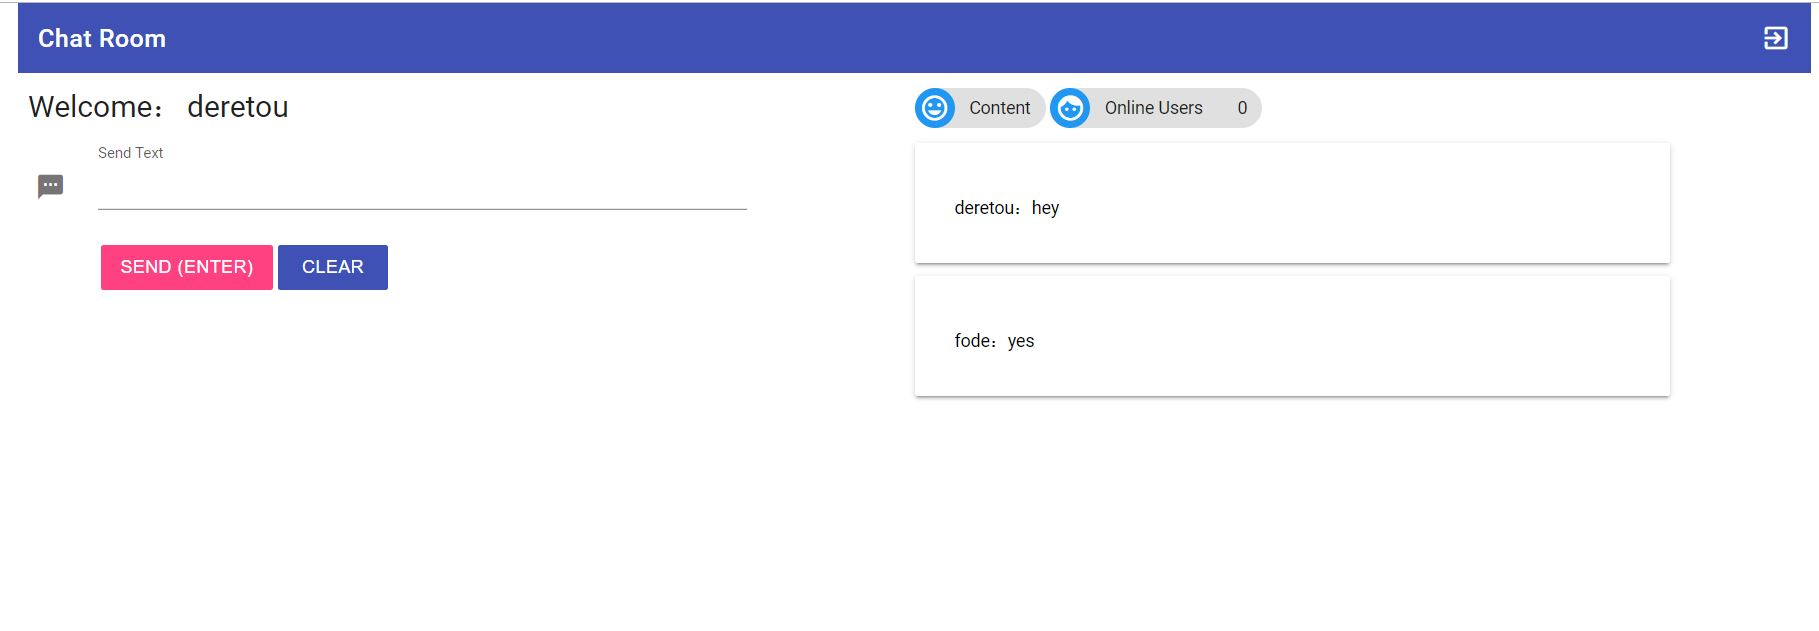
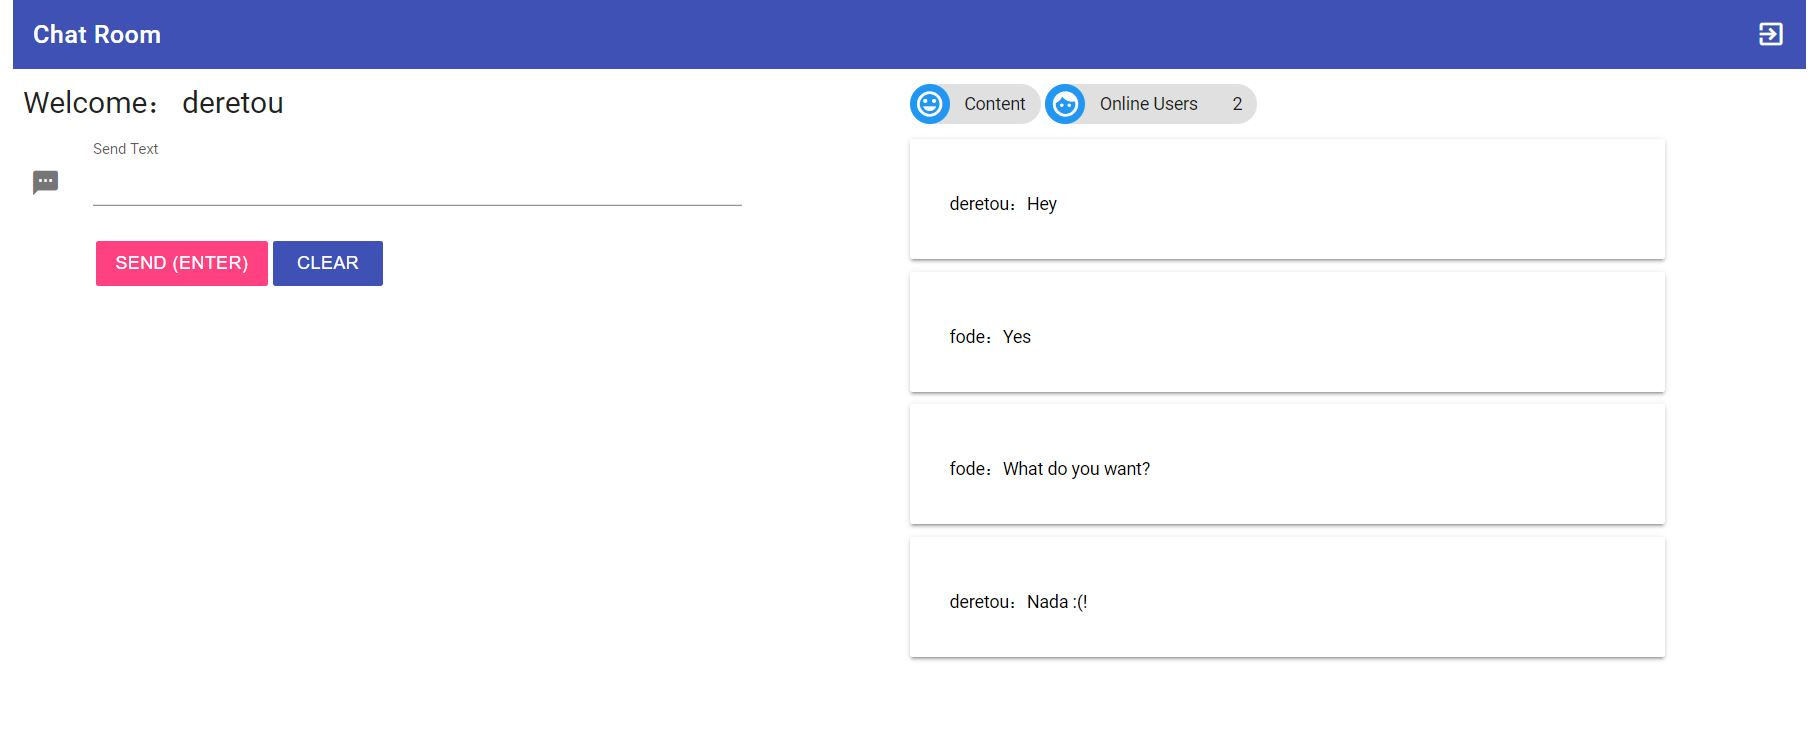
Chatroom

diff --git a/src/main/resources/templates/chat.html b/src/main/resources/templates/chat.html
@@ -103,7 +103,7 @@
                     '<div class="mdui-card-content message-content">' + message.sender + "：" + message.content + '</div>' +
                     '</div></div>');
             }
-            $('.chat-num').text(message.onlineCount);
+            $('.chat-num').text(message.counter);
             var $cards = $messageContainer.children('.mdui-card:visible').toArray();
             if ($cards.length > 5) {
                 $cards.forEach(function (item, index) {

diff --git a/target/classes/templates/chat.html b/target/classes/templates/chat.html
@@ -103,7 +103,7 @@
                     '<div class="mdui-card-content message-content">' + message.sender + "：" + message.content + '</div>' +
                     '</div></div>');
             }
-            $('.chat-num').text(message.onlineCount);
+            $('.chat-num').text(message.counter);
             var $cards = $messageContainer.children('.mdui-card:visible').toArray();
             if ($cards.length > 5) {
                 $cards.forEach(function (item, index) {

diff --git a/src/main/java/edu/udacity/java/nano/model/Message.java b/src/main/java/edu/udacity/java/nano/model/Message.java
@@ -27,17 +27,17 @@ public class Message {
     }
 
 
-    public Message(MessageType type, String sender, String content, int onlineTotal) {
+    public Message(MessageType type, String sender, String content, int counter) {
         this.type = type;
         this.sender = sender;
         this.content = content;
-        this.counter = onlineTotal;
+        this.counter = counter;
     }
 
 
 
-    public static String jsonStr(String type, String sender, String content, int onlineTotal) {
-        return JSON.toJSONString(new Message( MessageType.valueOf(type), sender, content, onlineTotal));
+    public static String jsonStr(String type, String sender, String content, int counter) {
+        return JSON.toJSONString(new Message( MessageType.valueOf(type), sender, content, counter));
     }
 
     public MessageType getType() {
